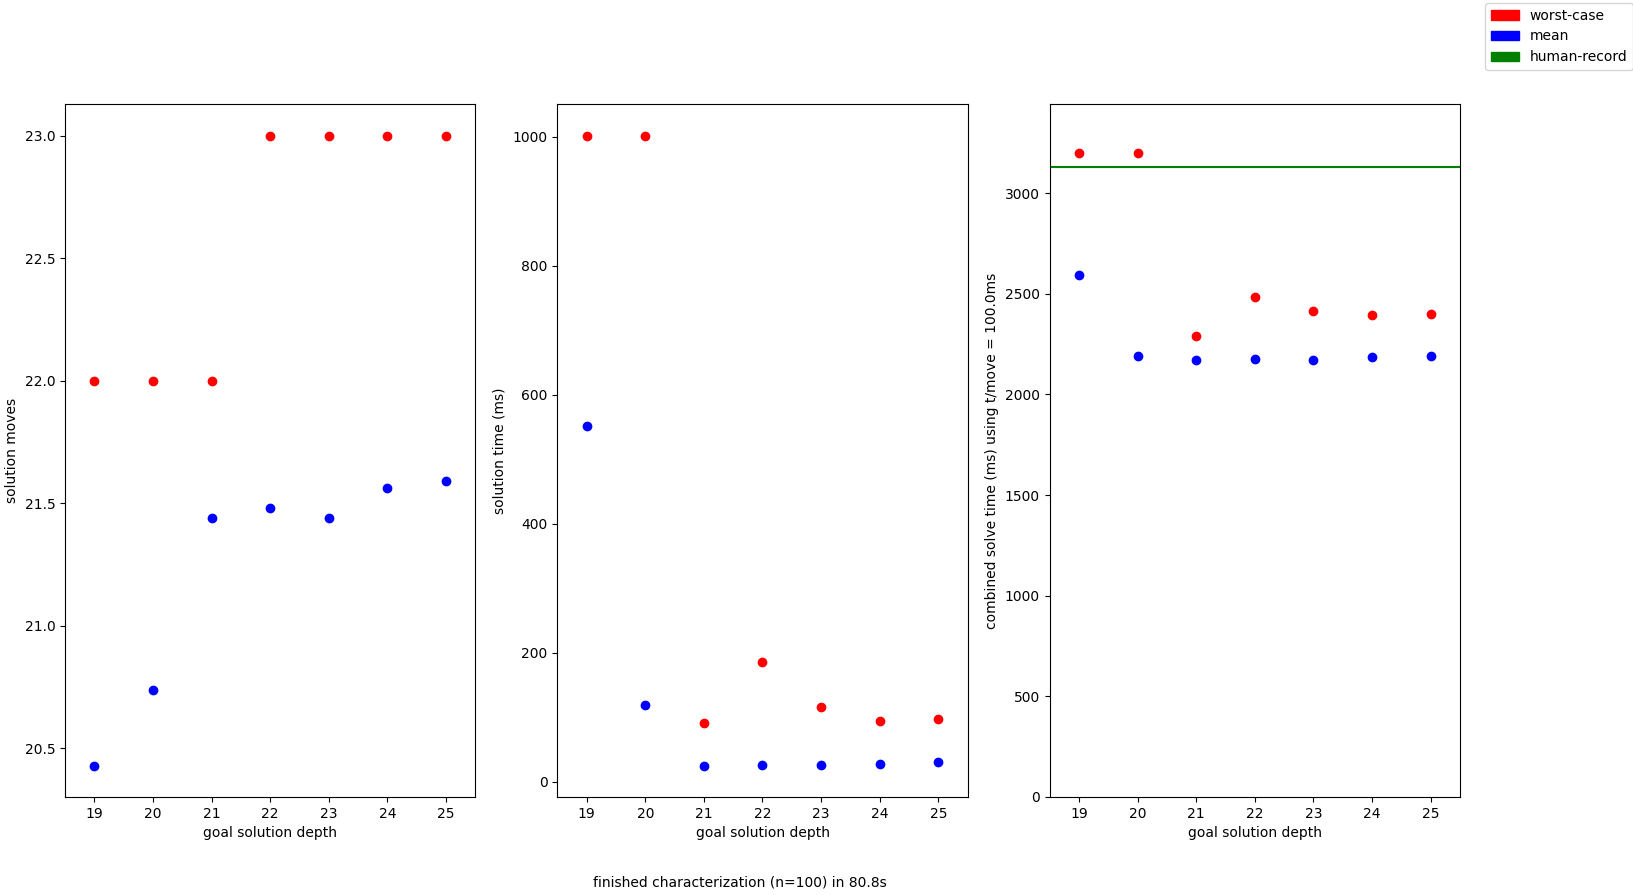
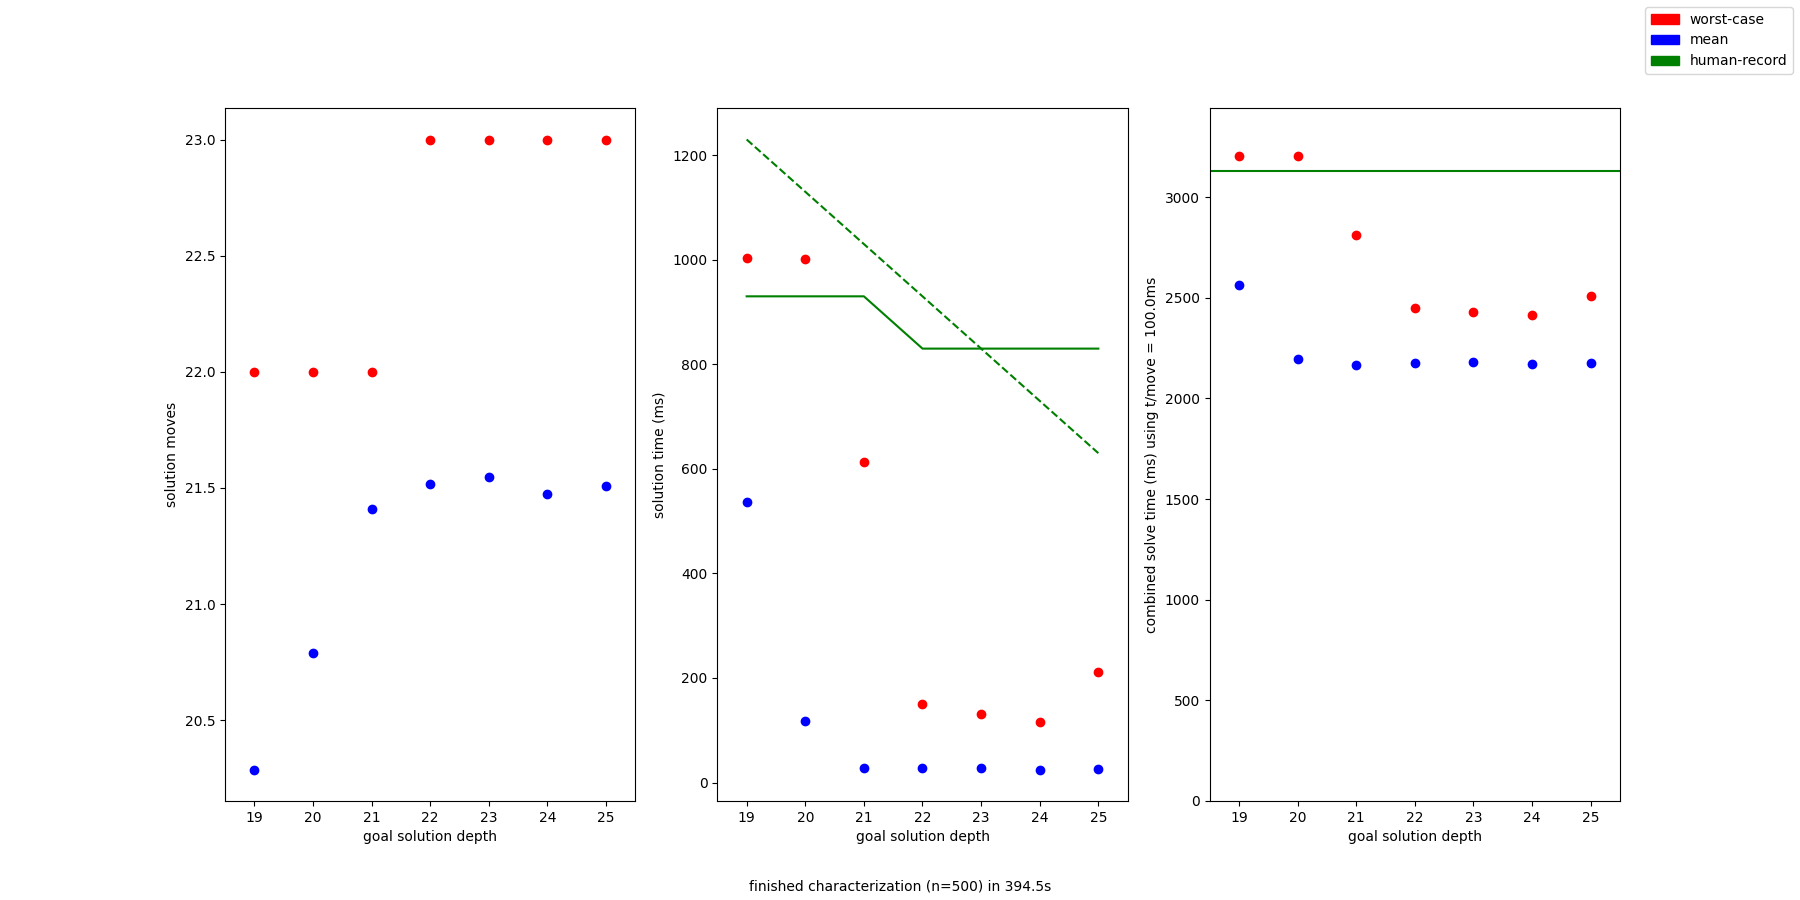
add threshold lines to solve time graph

diff --git a/characterize.py b/characterize.py
@@ -168,13 +168,21 @@ def entryPoint(
 
     characterizeEndTime = time.time()
 
+    humanRecord = 3130  # ms
+
     combinedTimes = []
     combinedMaxTimes = []
+
+    solveTimeTargetLine = []
 
     for i in range(0, len(goalDepths)):
         combinedTimes.append((meanDepth[i] * (timeSecondsPerMove * 1000)) + meanTime[i])
         combinedMaxTimes.append(
             (maxDepth[i] * (timeSecondsPerMove * 1000)) + maxTime[i]
+        )
+
+        solveTimeTargetLine.append(
+            humanRecord - (maxDepth[i] * timeSecondsPerMove * 1000)
         )
 
     fig, axes = plt.subplots(1, 3, sharex=True)
@@ -184,8 +192,16 @@ def entryPoint(
 
     axes[1].scatter(x=goalDepths, y=meanTime, c="blue")
     axes[1].scatter(x=goalDepths, y=maxTime, c="red")
-
-    humanRecord = 3130  # ms
+    axes[1].plot(
+        np.linspace(minGoalDepth, maxGoalDepth),
+        np.linspace(
+            humanRecord - (minGoalDepth * timeSecondsPerMove * 1000),
+            humanRecord - (maxGoalDepth * timeSecondsPerMove * 1000),
+        ),
+        color="green",
+        linestyle="dashed",
+    )
+    axes[1].plot(goalDepths, solveTimeTargetLine, color="green")
 
     axes[2].scatter(x=goalDepths, y=combinedTimes, c="blue")
     axes[2].scatter(x=goalDepths, y=combinedMaxTimes, c="red")
@@ -247,7 +263,7 @@ parser.add_argument(
 )
 parser.add_argument(
     "timeSecondsPerMove",
-    help="time of a 180deg turn in seconds, used for plotting time estimates",
+    help="time of a 180deg turn in seconds, used for plotting time estimates (worst case)",
     type=float,
 )
 parser.add_argument(

diff --git a/README.md b/README.md
@@ -23,7 +23,7 @@ positional arguments:
 
   `iterations`         | number of cubes to solve per goal depth
 
-  `timeSecondsPerMove` | time of a 180deg turn in seconds, used for plotting time estimates
+  `timeSecondsPerMove` | time of a 180deg turn in seconds, used for plotting time estimates (worst-case)
 
 options:
 
